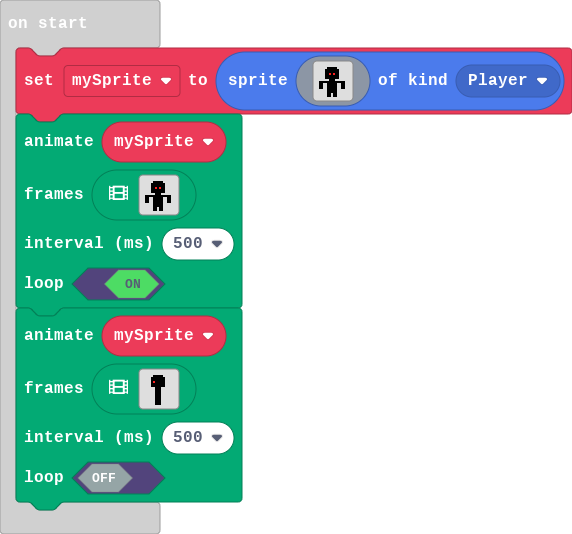
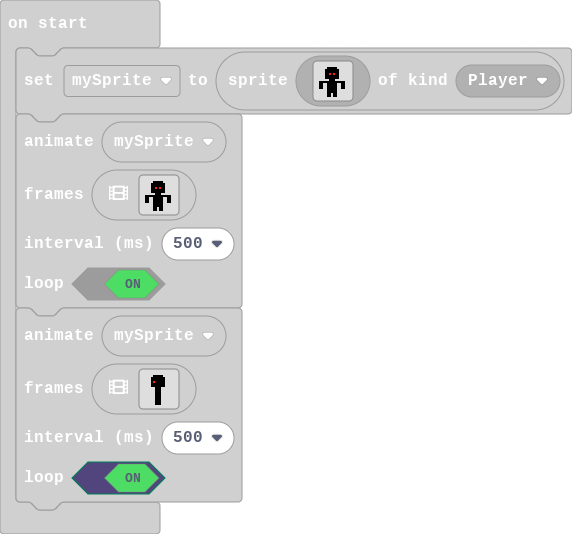
Update main.blocks, main.ts

diff --git a/main.ts b/main.ts
@@ -9,5 +9,5 @@ animation.runImageAnimation(
 mySprite,
 assets.animation`Walking Stickman`,
 500,
-false
+true
 )
